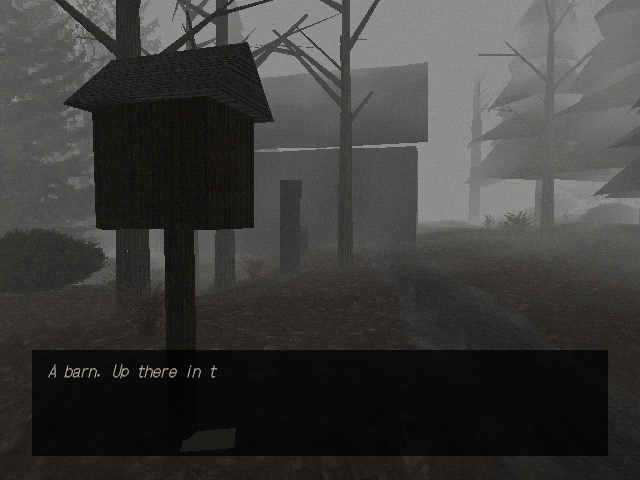
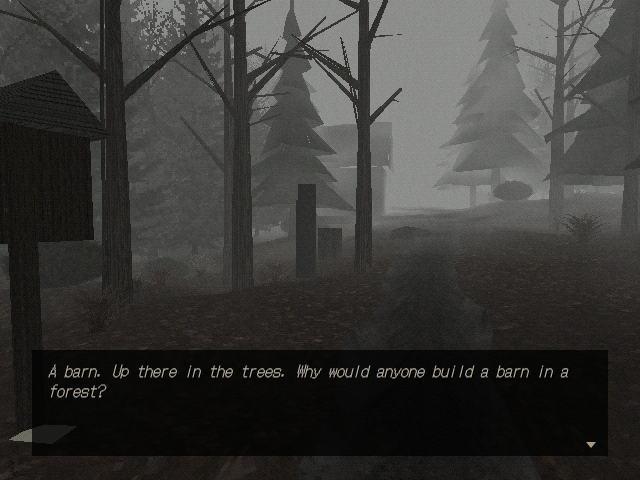
Count a spot past the fog as out of view in the scare director
The forest's fogFigure helper is gone; its figures are plain director figure beats, started on the ground at their spot. The fog action moves the camera far plane out while the fog thins, so the barn roof at the fork now stands 26 m up the right branch instead of 15 m.

diff --git a/src/game/scares/director.ts b/src/game/scares/director.ts
@@ -1,11 +1,13 @@
 import { Vector3 } from 'three';
 import type { Point3 } from '../../engine/audio/audioManager';
 import type { Surface } from '../../engine/physics/ground';
+import { cameraFar } from '../../engine/render/atmosphere';
 import { ps1Uniforms } from '../../engine/render/ps1Uniforms';
 import type { KitContext } from '../kit/builders';
 import { NpcBuilder } from '../kit/npc';
 import { BeatTracker, viewAngle, type Beat, type FigureSpec, type Place, type ScareAction, type Senses } from './beats';
 import { Figure, type Viewer } from './figure';
+import { fogSight, liveFog } from './fogSight';
 import { RandomEvents, type RandomEventId, type RandomEventOptions } from './randomEvents';
 import { otherStep, playSound } from './sounds';
 
@@ -97,7 +99,7 @@ export class ScareDirector {
     } else if ('silence' in action) {
       this.silence(action.silence);
     } else if ('fog' in action) {
-      this.thickenFog(action.fog);
+      this.changeFog(action.fog);
     } else if ('stinger' in action) {
       const at = this.place(action.at ?? 'behind', 2);
       playSound(audio, action.stinger === true ? 'sfx_hit' : action.stinger, { at, volume: 2 });
@@ -132,25 +134,36 @@ export class ScareDirector {
     this.after(SILENCE_FADE + seconds, () => audio.fadeBus('ambience', audio.busLevel('ambience'), SILENCE_RETURN));
   }
 
-  private thickenFog(fog: { far?: number; density?: number; seconds: number; fade?: number }): void {
+  /**
+   * Eases the fog to new values and back. When the fog thins, the camera's far plane moves out
+   * with it, so what the thinner fog uncovers is drawn.
+   */
+  private changeFog(fog: { far?: number; density?: number; seconds: number; fade?: number }): void {
     this.fogRestore?.();
-    const base = { far: ps1Uniforms.uFogFar.value, density: ps1Uniforms.uFogDensity.value };
+    const camera = this.ctx.scene.player.camera;
+    const base = { far: ps1Uniforms.uFogFar.value, density: ps1Uniforms.uFogDensity.value, camera: camera.far };
     const goal = { far: fog.far ?? base.far * 0.6, density: fog.density ?? base.density * 1.8 };
     const fade = fog.fade ?? 4;
     const start = this.clock;
     const end = start + fade * 2 + fog.seconds;
     const ease = (k: number) => k * k * (3 - 2 * k);
+    const setCamera = (far: number) => {
+      camera.far = far;
+      camera.updateProjectionMatrix();
+    };
     const tick = () => {
       const t = this.clock - start;
       const k = ease(Math.min(1, t / fade, Math.max(0, (end - this.clock) / fade)));
       ps1Uniforms.uFogFar.value = base.far + (goal.far - base.far) * k;
       ps1Uniforms.uFogDensity.value = base.density + (goal.density - base.density) * k;
+      setCamera(Math.max(base.camera, cameraFar(ps1Uniforms.uFogFar.value)));
     };
     this.ctx.world.updates.add(tick);
     this.fogRestore = () => {
       this.ctx.world.updates.delete(tick);
       ps1Uniforms.uFogFar.value = base.far;
       ps1Uniforms.uFogDensity.value = base.density;
+      setCamera(base.camera);
       this.fogRestore = null;
     };
     this.after(end - start, () => this.fogRestore?.());
@@ -180,16 +193,23 @@ export class ScareDirector {
     return { x: player.position.x, z: player.position.z, eye, view: this.view, time, state };
   }
 
+  /**
+   * A spot past the edge of the fog counts as out of view, so a figure on the path ahead can
+   * be there already and come out of the fog as the player walks on.
+   */
   private viewer(): Viewer {
     const eye = this.ctx.scene.player.camera.position;
     const view = this.view;
-    return { eye, angleTo: (point) => viewAngle({ eye, view }, point), sight: ps1Uniforms.uFogFar.value * 1.1 };
+    const sight = fogSight(liveFog());
+    return { eye, angleTo: (point) => (eye.distanceTo(point) > sight ? 180 : viewAngle({ eye, view }, point)), sight };
   }
 
   private castFigure(spec: FigureSpec): NpcBuilder {
     const npc = new NpcBuilder(this.ctx, spec.who ?? 'marc');
     npc.object.visible = false;
     this.ctx.world.scene.add(npc.object);
+    // Characters follow the ground from where their feet are, so start them at the spot's height.
+    this.ctx.later('register', () => (npc.character.position.y = this.ctx.world.ground.sample(spec.at.x, spec.at.z).height));
     return npc;
   }
 }

diff --git a/src/levels/forest_deep/index.ts b/src/levels/forest_deep/index.ts
@@ -1,10 +1,10 @@
 import { ConeGeometry, SphereGeometry } from 'three';
 import { mergeGeometries } from 'three/examples/jsm/utils/BufferGeometryUtils.js';
 import type { LevelKit } from '../../game/kit/levelKit';
+import type { ScareAction } from '../../game/scares/beats';
 import { scareDirector, type ScareDirector } from '../../game/scares/director';
 import { defineScene, type SceneContext } from '../../game/scene';
 import type { Markers } from '../forest_path/beats';
-import { fogFigure } from '../forest_path/fogFigure';
 import { lostInTheFog } from '../forest_path/lost';
 import { playNode } from '../forest_path/play';
 import { handText, scrawl } from '../forest_path/scrawl';
@@ -93,9 +93,7 @@ export const markers = {
  * up, and at the next turn it is there again in the same place relative to the player.
  */
 function stageLarch(kit: LevelKit, ctx: SceneContext): ScareDirector {
-  const watcher = (at: { x: number; z: number }) => fogFigure(kit, { at, vanish: 'unseen', near: 8, timeout: 30 });
-  const first = watcher(markers.for3_watched_1);
-  const second = watcher(markers.for3_watched_2);
+  const watcher = (at: { x: number; z: number }): ScareAction => ({ figure: { at, vanish: 'unseen', near: 8, timeout: 30 } });
   return kit.use(
     scareDirector(unspent(ctx.state, [
       { id: 'for3_grave', when: { after: Number.POSITIVE_INFINITY }, do: [{ silence: 6 }] },
@@ -103,12 +101,12 @@ function stageLarch(kit: LevelKit, ctx: SceneContext): ScareDirector {
         id: 'for3_watched',
         when: { enter: { ...markers.for3_watched_trigger_1, r: 2.5 } },
         if: { flag: 'found_forest_grave' },
-        do: [{ run: first }],
+        do: [watcher(markers.for3_watched_1)],
       },
       {
         id: 'for3_watched_again',
         when: { enter: { ...markers.for3_watched_trigger_2, r: 2.5 } },
-        do: [{ run: second }],
+        do: [watcher(markers.for3_watched_2)],
       },
     ])),
   );

diff --git a/src/levels/forest_path/scares.ts b/src/levels/forest_path/scares.ts
@@ -3,7 +3,6 @@ import type { Beat, ScareAction } from '../../game/scares/beats';
 import { scareDirector, type ScareDirector } from '../../game/scares/director';
 import { otherStep } from '../../game/scares/sounds';
 import type { SceneContext } from '../../game/scene';
-import { fogFigure } from './fogFigure';
 import { markers } from './layout';
 import { unspent } from './spent';
 import { isNight, type StoryPhase } from './story';
@@ -37,31 +36,27 @@ export function stageForestPath(kit: LevelKit, ctx: SceneContext, phase: StoryPh
   const night1 = phase === 'night1';
   const beats: Beat[] = [...extra];
   if (night1) {
-    const ahead = fogFigure(kit, {
-      at: for1_ahead,
-      face: for1_ahead.yaw,
-      vanish: 'never',
-      near: 8.5,
-      leave: [for1_ahead_exit],
-    });
-    const again = fogFigure(kit, {
-      at: for1_ahead_again_from,
-      face: for1_ahead_again_from.yaw - 90,
-      walk: [for1_ahead_again_to],
-      near: 7,
-      leave: [for1_ahead_again_to],
-    });
     beats.push(
       {
         id: 'for1_ahead',
         when: { enter: { ...markers.for1_ahead_trigger, r: 2.5 } },
         if: { flag: 'first_sighting' },
-        do: [{ silence: 18 }, { run: ahead }],
+        do: [{ silence: 18 }, { figure: { at: for1_ahead, face: for1_ahead.yaw, vanish: 'never', near: 8.5, leave: [for1_ahead_exit] } }],
       },
       {
         id: 'for1_ahead_again',
         when: { enter: { ...markers.for1_ahead_again_trigger, r: 2.5 } },
-        do: [{ run: again }],
+        do: [
+          {
+            figure: {
+              at: for1_ahead_again_from,
+              face: for1_ahead_again_from.yaw - 90,
+              walk: [for1_ahead_again_to],
+              near: 7,
+              leave: [for1_ahead_again_to],
+            },
+          },
+        ],
       },
       {
         id: 'for1_fork_steps',

diff --git a/src/game/scares/fogSight.ts b/src/game/scares/fogSight.ts
@@ -1,0 +1,29 @@
+import { ps1Uniforms } from '../../engine/render/ps1Uniforms';
+
+export interface Fog {
+  near: number;
+  far: number;
+  density: number;
+  wisps: number;
+}
+
+/** How much fog hides at this distance before it counts as gone. */
+const HIDDEN = 0.95;
+
+/**
+ * Meters past which the fog hides a figure completely, by the same ramp and falloff as the PS1
+ * material. Wisps thin the fog in patches, so the distance is pushed out a little for them.
+ */
+export function fogSight(fog: Fog): number {
+  const ramp = fog.near + HIDDEN * (fog.far - fog.near);
+  const falloff = fog.density > 0 ? fog.near + Math.sqrt(-Math.log(1 - HIDDEN)) / fog.density : Infinity;
+  return Math.min(ramp, falloff) / (1 - fog.wisps / 4);
+}
+
+/** The fog the shared uniforms hold this frame, including any beat thickening or thinning it. */
+export const liveFog = (): Fog => ({
+  near: ps1Uniforms.uFogNear.value,
+  far: ps1Uniforms.uFogFar.value,
+  density: ps1Uniforms.uFogDensity.value,
+  wisps: ps1Uniforms.uFogWisps.value,
+});

diff --git a/src/levels/forest_path/layout.ts b/src/levels/forest_path/layout.ts
@@ -140,11 +140,11 @@ export const markers = {
   },
   for2_roofline: {
     beat: 'for2_roofline',
-    x: 5,
+    x: 7.5,
     y: 5,
-    z: -13.5,
-    yaw: yawToward(5 - heifer.x, -13.5 - heifer.z),
-    note: 'The fort as a dark barn roof up the right branch, shown only while the fog thins, once, when the player looks up the branch from the fork. It stands nearer than the real fort: nothing past the fog is drawn.',
+    z: -25.5,
+    yaw: yawToward(7.5 - heifer.x, -25.5 - heifer.z),
+    note: 'The fort as a dark barn roof up the right branch, about 26 m from the fork, shown only while the fog thins, once, when the player looks up the branch. The real fort is further on; the roof stands where thinned fog can just uncover it.',
   },
   for2_stump_shape: {
     beat: 'for2_stump',

diff --git a/src/engine/render/atmosphere.ts b/src/engine/render/atmosphere.ts
@@ -25,6 +25,9 @@ export interface Atmosphere {
   flashlight?: boolean;
 }
 
+/** The camera's far plane for a fog: a little past where the fog hides everything. */
+export const cameraFar = (fogFar: number): number => fogFar * 1.15;
+
 /** Writes an atmosphere to the shared uniforms and returns the values the renderer needs. */
 export function applyAtmosphere(atmosphere: Atmosphere): { background: Color; far: number; saturation: number } {
   const { fog } = atmosphere;
@@ -42,7 +45,7 @@ export function applyAtmosphere(atmosphere: Atmosphere): { background: Color; fa
   }
   return {
     background: new Color(fog.color),
-    far: fog.far * 1.15,
+    far: cameraFar(fog.far),
     saturation: atmosphere.saturation ?? 0.75,
   };
 }

diff --git a/src/game/scares/fogSight.test.ts b/src/game/scares/fogSight.test.ts
@@ -1,11 +1,9 @@
 import { describe, expect, it } from 'vitest';
-import { forestAtmosphere } from './woods';
-import { fogSight } from './fogFigure';
+import { fogSight } from './fogSight';
 
 describe('fogSight', () => {
-  it('hides a figure just past the torch beam at night', () => {
-    const { fog } = forestAtmosphere.night;
-    const sight = fogSight({ near: fog.near, far: fog.far, density: fog.density ?? 0, wisps: fog.wisps ?? 0 });
+  it('hides a figure just past the torch beam in the forest at night', () => {
+    const sight = fogSight({ near: 0.4, far: 11, density: 0.16, wisps: 0.3 });
     expect(sight).toBeGreaterThan(10);
     expect(sight).toBeLessThan(12.5);
   });

diff --git a/src/levels/forest_path/heifer.ts b/src/levels/forest_path/heifer.ts
@@ -100,7 +100,7 @@ function stageTheFork(kit: LevelKit, ctx: SceneContext): Beat[] {
       id: 'for2_roofline',
       when: [{ enter: { ...markers.for2_heifer_fork, r: 7 } }, { look: { ...ROOF, within: 34, angle: 14, hold: 1 } }],
       do: [
-        { fog: { far: 20, density: 0.06, seconds: 5, fade: 2.5 } },
+        { fog: { far: 30, density: 0.045, seconds: 5, fade: 2.5 } },
         { run: () => void (roof.object.visible = true) },
         { after: 3.5, run: (c) => c.say('A barn. Up there in the trees. Why would anyone build a barn in a forest?') },
         { after: 10.5, run: () => void (roof.object.visible = false) },

diff --git a/src/levels/forest_deep/index.test.ts b/src/levels/forest_deep/index.test.ts
@@ -1,5 +1,5 @@
 import { describe, expect, it } from 'vitest';
-import { fogSight } from '../forest_path/fogFigure';
+import { fogSight } from '../../game/scares/fogSight';
 import { distanceToTrails } from '../forest_path/trail';
 import { forestAtmosphere } from '../forest_path/woods';
 import { markers, track, watchedFrom } from './index';

diff --git a/src/levels/forest_path/layout.test.ts b/src/levels/forest_path/layout.test.ts
@@ -1,5 +1,5 @@
 import { describe, expect, it } from 'vitest';
-import { fogSight } from './fogFigure';
+import { fogSight } from '../../game/scares/fogSight';
 import { main, markers } from './layout';
 import { stepsAway } from './scares';
 import { distanceToTrails } from './trail';
